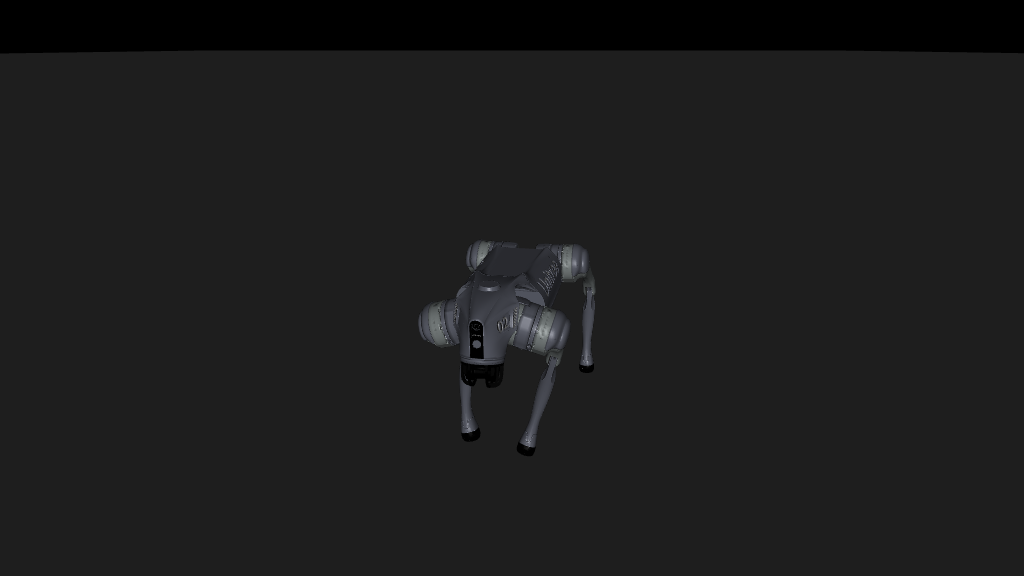
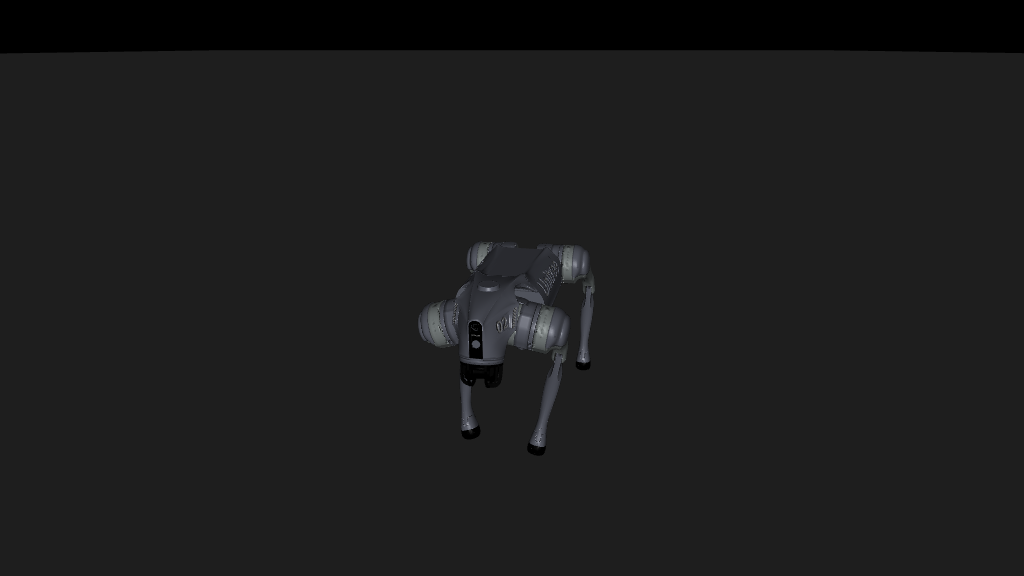
The deploy tier knows no project: the render stream resolves the project and hands viewport_source the deployments folder (test_layers); the replay's clock advances per frame, re-proved through the stream
Claude-Session: https://claude.ai/code/session_01MNvYwm2XvRvea4wm9UZrTN

Changed region(s): [[0.4688, 0.5312, 0.5938, 0.8125], [0.4375, 0.7188, 0.4688, 0.75]]

diff --git a/pipeline/rq_pipeline/deploy/viewport_source.py b/pipeline/rq_pipeline/deploy/viewport_source.py
@@ -500,18 +500,14 @@ class ViewportScene:
         return int(self.model.jnt_bodyid[free[0]])
 
 
-def deployment_folder(name: str, project_root: Path | None = None) -> Path:
-    """The current project's (or `project_root`'s, made current: the
-    bundle's meshes are found project-first) deployment folder by name,
-    refused by name when it has no manifest."""
-    from rq_pipeline.project import current_project  # noqa: PLC0415
-    from rq_pipeline.project.locate import DEPLOY_FOLDER, Project  # noqa: PLC0415
-
-    project = Project(Path(project_root)).use() if project_root else current_project()
-    folder = project.folder(DEPLOY_FOLDER) / name
+def deployment_folder(name: str, deploy_root: Path) -> Path:
+    """The deployment folder by name under a project's deployments
+    (`deploy_root`, the caller's: this tier knows no project), refused by
+    name when it has no manifest."""
+    folder = Path(deploy_root) / name
     if not (folder / MANIFEST_FILE).is_file():
         raise FileNotFoundError(
-            f"no deployment {name!r} with a manifest in {project.root}"
+            f"no deployment {name!r} with a manifest in {deploy_root}"
         )
     return folder
 
@@ -519,17 +515,19 @@ def deployment_folder(name: str, project_root: Path | None = None) -> Path:
 def open_scene(
     text: str,
     *,
-    project_root: Path | None = None,
+    deploy_root: Path,
     offscreen_side: int | None = None,
     twist_word: str = "twist",
     twist_axes: int = 3,
 ) -> ViewportScene:
     """The scene's model (the deployment's own scene, the bundle's meshes)
-    and its plan; every refusal is raised here, before a frame."""
+    and its plan; every refusal is raised here, before a frame. The
+    bundle's meshes are found project-first: the caller has made the
+    project current (`Project.use()`)."""
     from rq_pipeline.deploy.runtime import assets_dir_of, load_scene  # noqa: PLC0415
 
     scene = parse_scene(text)
-    folder = deployment_folder(scene.name, project_root)
+    folder = deployment_folder(scene.name, deploy_root)
     manifest = load_manifest(folder)
     model = load_scene(manifest, assets_dir=assets_dir_of(manifest))
     if offscreen_side is not None:  # raise, never lower, the offscreen budget

diff --git a/tools/studio-render-stream.py b/tools/studio-render-stream.py
@@ -1879,12 +1879,18 @@ PROJECT_ROOT: "pathlib.Path | None" = None
 
 def open_deploy_scene(name: str) -> "object":
     """A deployment in the viewport (`deploy.viewport_source`): its own
-    scene and meshes, built the same in both processes; refused by name."""
+    scene and meshes, built the same in both processes; refused by name.
+    The project is `--project=`'s, else the environment's current one,
+    made current so the bundle's meshes are found project-first."""
     from rq_pipeline.deploy.viewport_source import open_scene  # noqa: PLC0415
+    from rq_pipeline.project import current_project  # noqa: PLC0415
+    from rq_pipeline.project.locate import DEPLOY_FOLDER, Project  # noqa: PLC0415
 
+    project = Project(PROJECT_ROOT) if PROJECT_ROOT is not None else current_project()
+    project.use()
     return open_scene(
         name,
-        project_root=PROJECT_ROOT,
+        deploy_root=project.folder(DEPLOY_FOLDER),
         offscreen_side=MAX_RENDER_SIDE,
         twist_word=MAILBOX_TWIST,
         twist_axes=TWIST_AXES,
